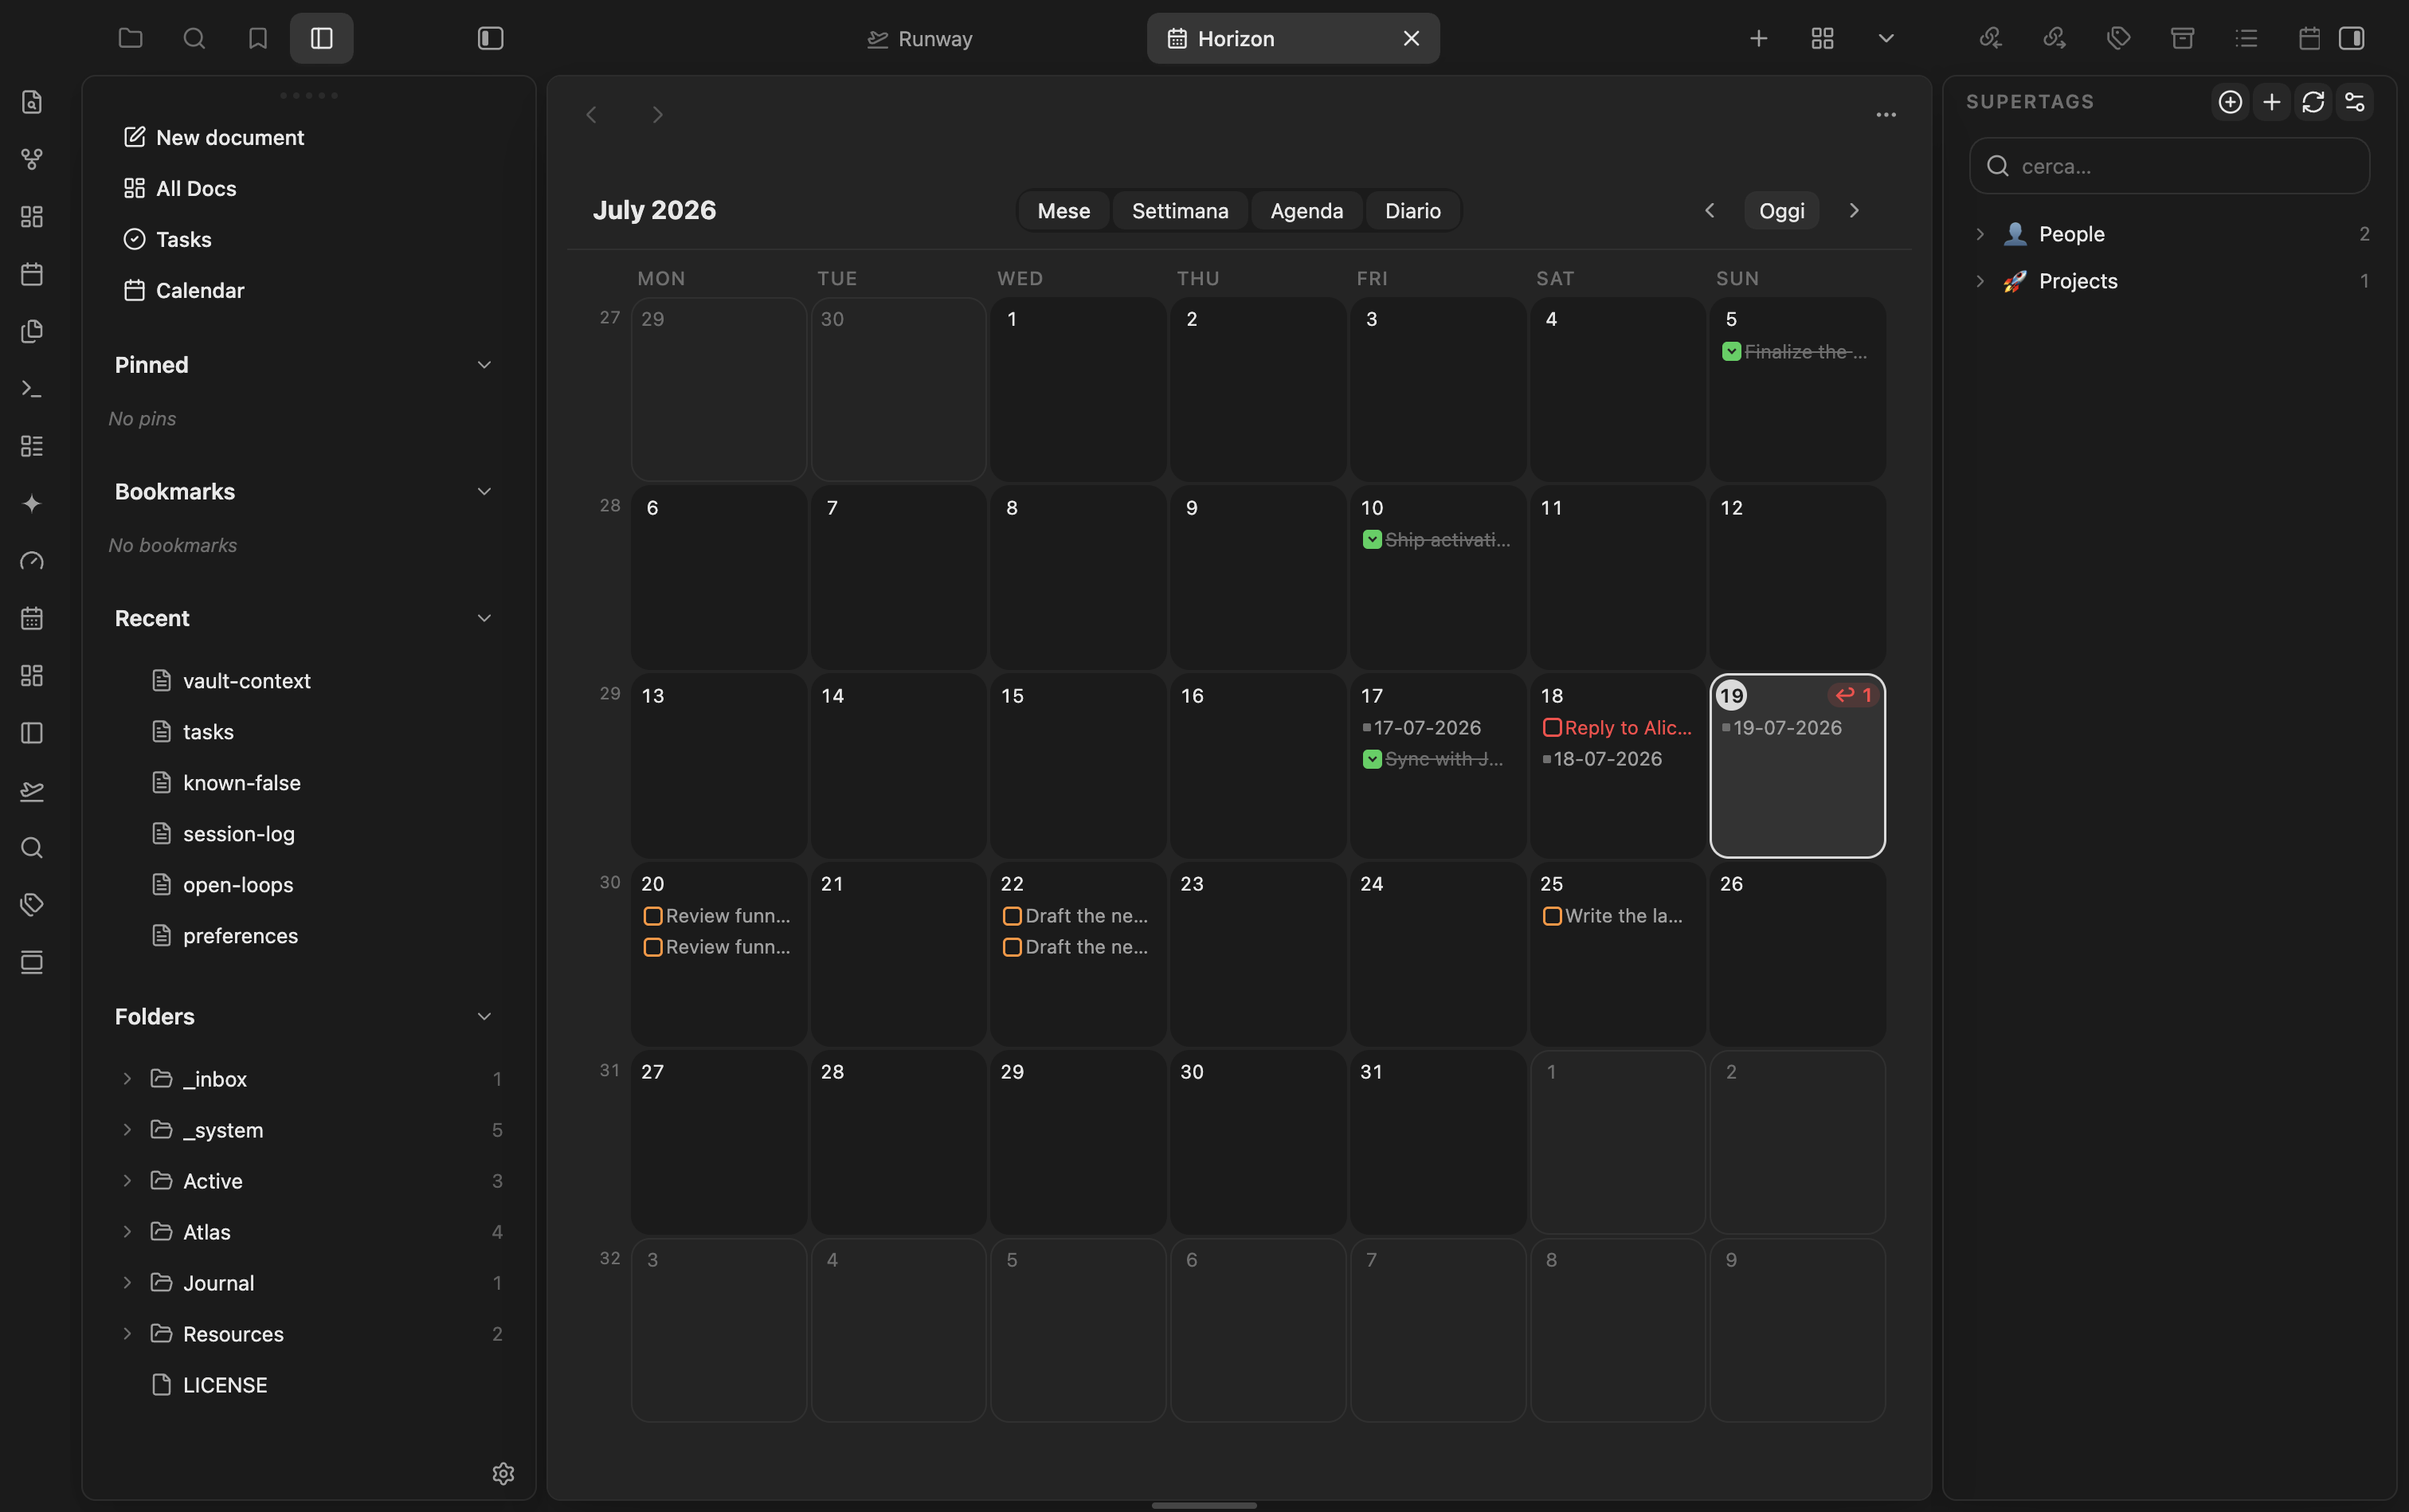
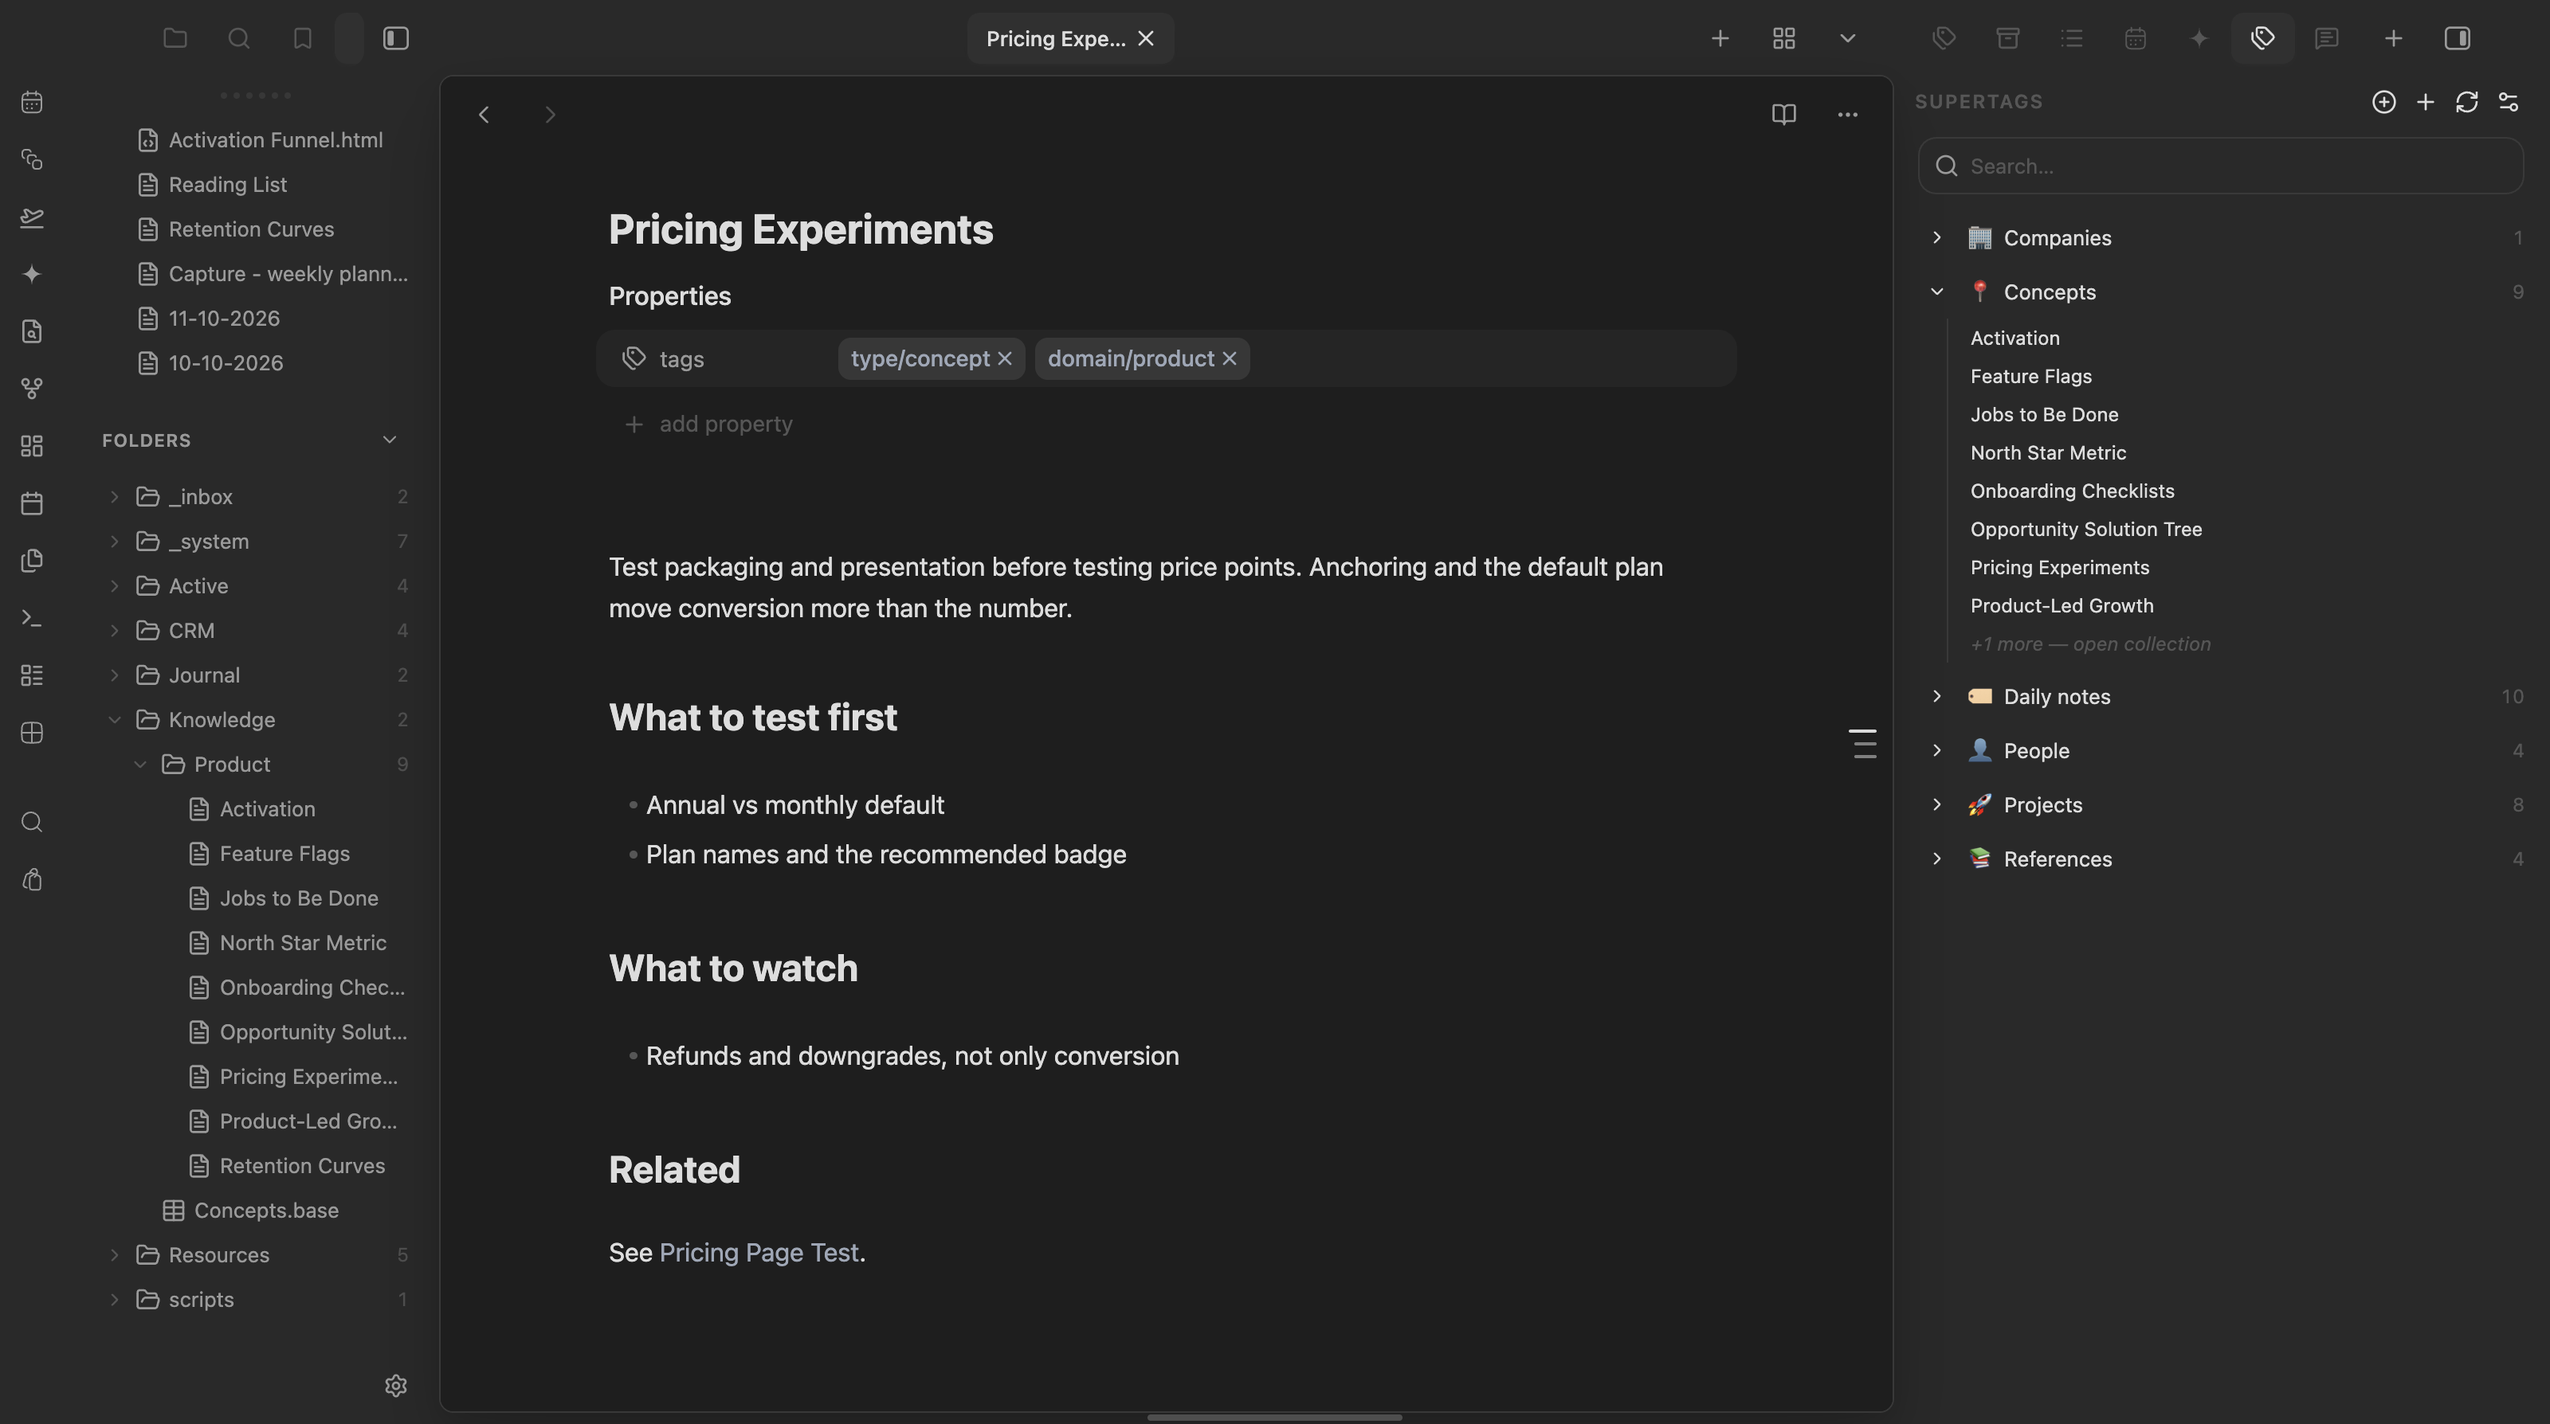
docs: real screenshots from the sample vault in the README
Captured in Obsidian with Cosmos and the current plugin build, on the
public obsidianverse sample vault.

diff --git a/README.md b/README.md
@@ -21,9 +21,9 @@ SUPERTAGS            ⚙  +
 Part of the marioverse Obsidian plugin suite.
 
 <p align="center">
-  <img src="docs/hub.png" width="380" alt="SuperBaseTags — the supertags hub" />
+  <img src="docs/hub.png" width="900" alt="SuperBaseTags: the supertags hub" />
 </p>
-<p align="center"><em>Every collection with a live member count, one click away.</em></p>
+<p align="center"><em>Every collection with a live member count, one click away. Expand one to list its members.</em></p>
 
 ## What it does
 
